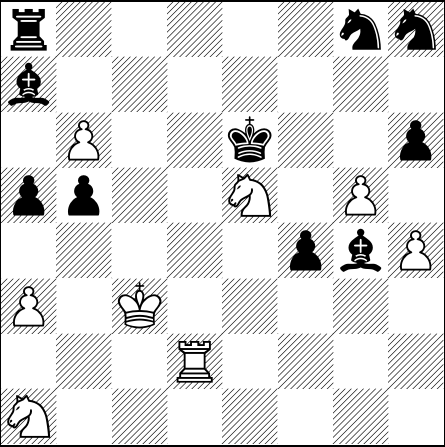
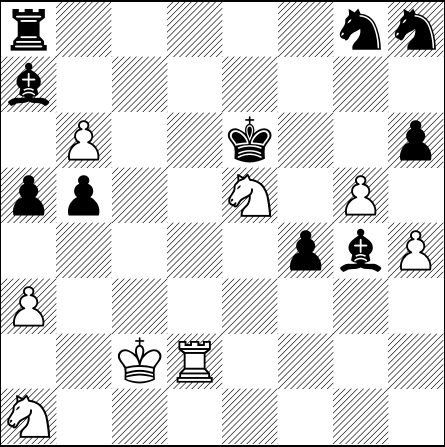
[automated] Regenerate text/pdf for chessboard

Changed region(s): [[0.2629, 0.6398, 0.3798, 0.8725]]

diff --git a/default_filepath.tex b/default_filepath.tex
@@ -13,6 +13,6 @@
 \normalsize%
 \setchessboard{showmover=false}%
 \newgame%
-\fenboard{r5nn/b7/1P2k2p/pp2N1P1/5pbP/P1K5/3R4/N7 w - - 0 73}%
+\fenboard{r5nn/b7/1P2k2p/pp2N1P1/5pbP/P7/2KR4/N7 b - - 1 73}%
 \chessboard%
 \end{document}
